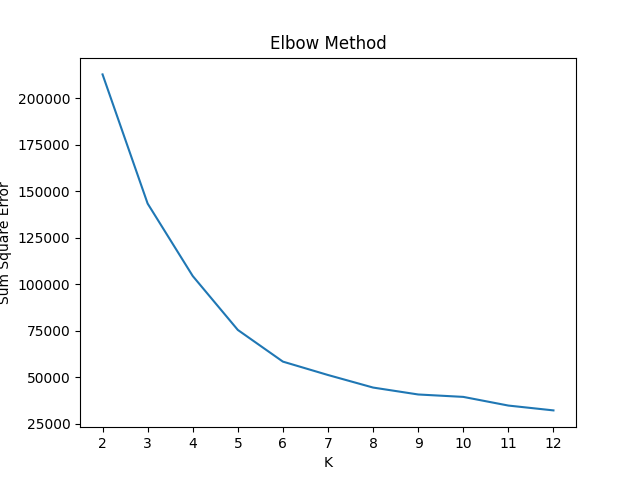
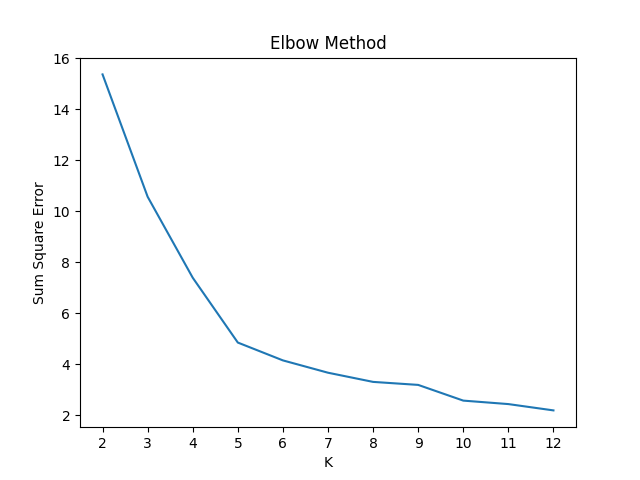
big progress

diff --git a/my_model/my_plot.py b/my_model/my_plot.py
@@ -1,6 +1,8 @@
 import matplotlib.pyplot as plt
+from matplotlib import cm
+import numpy as np
 
-from .cluster_metric import silhouette_score
+from .cluster_metric import silhouette_coefficients, silhouette_score, cluster_grouping, centroid
 from .k_mean import KMeans
 
 def plot_elbow_method(customers, k_max):
@@ -32,3 +34,72 @@ def plot_silhouette_method(customers, k_max):
     plt.xticks(range(2, k_max + 1))
     # plt.savefig('fig/silhouette_method.png')
     plt.show()
+
+def plot_silhouette_single_k(customers, labels):
+    k = len(set(labels))
+    plt.xlim([-0.1, 1])
+    plt.ylim([0, len(customers) + (k + 1) * 10])
+
+    coefficient_list = silhouette_coefficients(customers, labels)
+    avg_score = np.mean(coefficient_list)
+    plt.axvline(x=avg_score, color='red', linestyle='--')
+
+    y_lower = 10
+    for i in range(k):
+        cluster_i_coefficients = coefficient_list[labels == i]
+        cluster_i_coefficients.sort()
+        cluster_i_size = len(cluster_i_coefficients)
+
+        y_upper = y_lower + cluster_i_size
+        color = cm.nipy_spectral(float(i) / k)
+        plt.fill_betweenx(
+            np.arange(y_lower, y_upper),
+            0,
+            cluster_i_coefficients,
+            facecolor = color,
+            edgecolor = color,
+            alpha = 0.7
+        )
+
+        plt.text(-0.05, y_lower + 0.5 * cluster_i_size, str(i))
+        y_lower = y_upper + 10
+    
+    plt.title("The silhouette plot for %d clusters" % k)
+    plt.xlabel("silhouette coefficient value")
+    plt.ylabel("cluster label")
+    plt.xticks([-0.1, 0, 0.2, 0.4, 0.6, 0.8, 1])
+    plt.yticks([])
+    plt.show()
+
+def plot_customer_clusters(customers, labels, field_names):
+    k = len(set(labels))
+    cluster_list = cluster_grouping(customers, labels)
+    centroid_list = np.array([centroid(cluster_list[i]) for i in range(k)])
+
+    colors = cm.nipy_spectral(labels.astype(float) / k)
+    for idx1 in range(len(customers[0])):
+        for idx2 in range(idx1 + 1, len(customers[0])):
+            plt.scatter(
+                customers[:, idx1], customers[:, idx2], marker=".", s=30, lw=0, alpha=0.7, c=colors, edgecolor="k"
+            )
+
+            # Labeling the clusters
+            centers = centroid_list[:, [idx1, idx2]]
+            # Draw white circles at cluster centers
+            plt.scatter(
+                centers[:, 0],
+                centers[:, 1],
+                marker="o",
+                c="white",
+                alpha=1,
+                s=200,
+                edgecolor="k",
+            )
+
+            for i, c in enumerate(centers):
+                plt.scatter(c[0], c[1], marker="$%d$" % i, alpha=1, s=50, edgecolor="k")
+
+            plt.title("Customer Clusters")
+            plt.xlabel(field_names[idx1])
+            plt.ylabel(field_names[idx2])
+            plt.show()

diff --git a/my_model/cluster_metric.py b/my_model/cluster_metric.py
@@ -4,35 +4,56 @@ import numpy as np
 from .distance_function import euclidean_distance
 
 def silhouette_score(customers, labels):
-    sum_score = 0
+    coefficient_list = silhouette_coefficients(customers, labels)
+    return np.mean(coefficient_list)
+
+# calculate and return the silhouette coefficient of each sample
+def silhouette_coefficients(customers, labels):
+    coefficient_list = []
     cluster_list = cluster_grouping(customers, labels)
+
+    for idx in range(len(customers)):
+        a_i, b_i = 0, math.inf
+        cus_i = customers[idx]
+        label_i = labels[idx]
+
+        if len(cluster_list[label_i]) == 1: 
+            coefficient_list.append(0) # s_i = 0
+            continue
+
+        # Calculate a(i)
+        for cus_j in cluster_list[label_i]:
+            a_i += euclidean_distance(cus_i, cus_j)
+        a_i /= len(cluster_list[label_i]) - 1
+
+        # Calculate b(i)
+        for label_j in range(len(cluster_list)):
+            if label_i == label_j: continue
+            b_i_tmp = 0
+            for cus_j in cluster_list[label_j]:
+                b_i_tmp += euclidean_distance(cus_i, cus_j)
+            b_i_tmp /= len(cluster_list[label_j])
+
+            if b_i_tmp < b_i: b_i = b_i_tmp
+        
+        # Calculate s(i)
+        s_i = (b_i - a_i) / max(a_i, b_i)
+        coefficient_list.append(s_i)
     
-    for idx, cluster_i in enumerate(cluster_list):
-        if len(cluster_i) == 1: continue
+    return np.array(coefficient_list)
 
-        for cus_i in cluster_i:
-            a_i, b_i = 0, math.inf
+def RMSSTD(customers, labels):
+    cluster_list = cluster_grouping(customers, labels)
+    sum_square_error = 0
+    k = len(cluster_list)
+    P = len(customers[0])
 
-            # Calculate a(i)
-            for cus_j in cluster_i:
-                a_i += euclidean_distance(cus_i, cus_j)
-            a_i /= len(cluster_i) - 1
-
-            # Calculate b(i)
-            for idx2, cluster_j in enumerate(cluster_list):
-                if idx == idx2: continue
-                b_i_tmp = 0
-                for cus_j in cluster_j:
-                    b_i_tmp += euclidean_distance(cus_i, cus_j)
-                b_i_tmp /= len(cluster_j)
-
-                if b_i_tmp < b_i: b_i = b_i_tmp
-            
-            # Calculate s(i)
-            s_i = (b_i - a_i) / max(a_i, b_i)
-            sum_score += s_i
+    for cluster_i in cluster_list:
+        centroid_i = centroid(cluster_i)
+        for cus in cluster_i:
+            sum_square_error += euclidean_distance(cus, centroid_i) ** 2
     
-    return sum_score / len(customers)
+    return math.sqrt( sum_square_error / (P * (len(customers) - k)) )
 
 def dunn_index(customers, labels):
     min_inter_dist = math.inf

diff --git a/check_outlier.py b/check_outlier.py
@@ -1,0 +1,56 @@
+import numpy as np
+from math import dist
+import matplotlib.pyplot as plt
+from matplotlib import cm
+import pandas as pd
+import random
+
+from my_model.k_mean import KMeans
+
+FIELD = ['Age', 'Annual Income (k$)', 'Spending Score (1-100)']
+
+# Prepare Data
+customer_df = pd.read_csv('data/Mall_Customers.csv')
+customers = customer_df[FIELD].to_numpy(dtype=object)
+
+# Normalization (min-max scaling)
+min_i = [18, 15, 1]
+max_i = [70, 137, 99]
+for cus in customers:
+    for i in range(len(cus)):
+        cus[i] = (cus[i] - min_i[i]) / (max_i[i] - min_i[i])
+        if i == 0: cus[i] /= 3 # weight age = 1/3
+
+# sort the centroid in lexical order from 1st attributes -> 3rd attributes
+def sort_centroid(centroid_list):
+    # sort_ind = np.lexsort((centroid_list[:, 2], centroid_list[:, 1], centroid_list[:, 0]))
+    # return centroid_list[sort_ind]
+    return np.array(sorted( centroid_list, key=(lambda x: dist(x, [0, 0, 0])) ))
+
+k = 5
+km = KMeans(k)
+colors = cm.nipy_spectral([0, 1/5, 2/5, 3/5, 4/5])
+
+# # Whole Dataset
+# km.fit(customers)
+# centroid_list_all_dataset = sort_centroid(km.centroid_list)
+
+# plt.scatter(
+#     centroid_list_all_dataset[:, 0], centroid_list_all_dataset[:, 1], marker=".", s=30, lw=0, alpha=0.7, c=colors, edgecolor="k"
+# )
+
+# Random Sample 50% of Dataset 10 times
+for i in range(10):
+    idx = random.sample(range(len(customers)), 150)
+    customers_sample = customers[idx, :]
+    if i == 9: 
+        customers_sample = np.append(customers_sample, [[0.3, 1, 1]], axis=0)
+    km.fit(customers_sample)
+    centroid_list = sort_centroid(km.centroid_list)
+    # print([dist(centroid_list[i], centroid_list_all_dataset[i]) for i in range(k)])
+    # print(centroid_list)
+    plt.scatter(
+        centroid_list[:, 0], centroid_list[:, 1], marker=".", s=30, lw=0, alpha=0.7, c=colors, edgecolor="k"
+    )
+
+plt.show()

diff --git a/choosing_k_analyse.py b/choosing_k_analyse.py
@@ -3,7 +3,7 @@ import pandas as pd
 import random
 
 from my_model.k_mean import KMeans
-from my_model.my_plot import plot_customer_clusters
+from my_model.my_plot import *
 
 FIELD = ['Age', 'Annual Income (k$)', 'Spending Score (1-100)']
 
@@ -24,12 +24,16 @@ for cus in X:
     for i in range(len(cus)):
         cus[i] = (cus[i] - min_i[i]) / (max_i[i] - min_i[i])
         if i == 0: cus[i] /= 3 # weight age = 1/3
-        
+
 print(FIELD)
 print(X)
 
-km = KMeans(k=5)
+plot_elbow_method(X, 12)
+plot_silhouette_method(X, 12)
+
+# plot silhouette for k = 5
+km = KMeans(5)
 km.fit(X)
 labels = km.predict(X)
+plot_silhouette_single_k(X, labels)
 
-plot_customer_clusters(customers, labels, FIELD)
